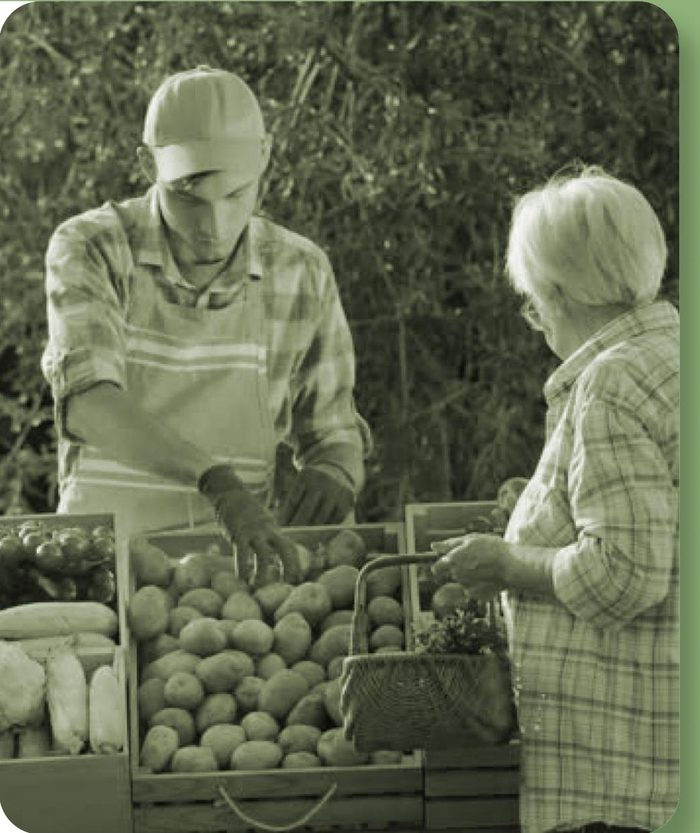
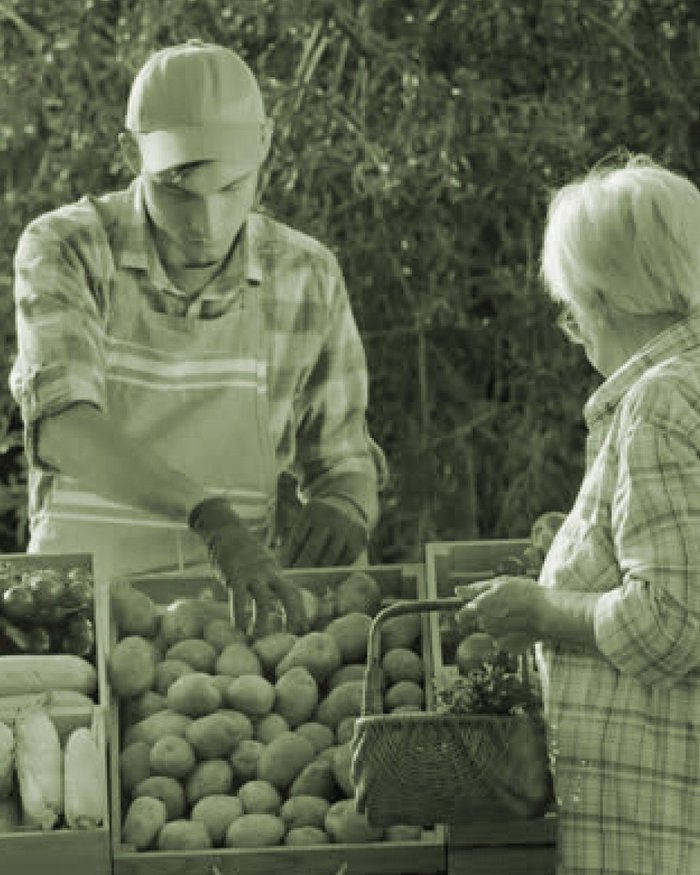
Make page: match reference layout, blinking caret, full-width bars
Rework the Harvest Fair card to top-aligned text with a 2:3 text/photo
split and independently rounded left corners on the photo (using the
color photo supplied for this card, cropped clean of its own baked-in
rounding). Replace the "Host a Cultural Event" card with two plain
full-width bars ("Host a Cultural Event", "Open a Temporary Shop") that
lighten on hover but aren't clickable. Replace the tall static left
border on the initiative textarea with a single-line blinking caret
that hides once the field is focused or has text.

Claude-Session: https://claude.ai/code/session_01BxYCRXjLNNhZD275zs3Trx

diff --git a/assets/css/style.css b/assets/css/style.css
@@ -533,30 +533,41 @@ main {
 
 .make-card {
   display: grid;
-  grid-template-columns: 1fr 1fr;
+  grid-template-columns: 2fr 3fr;
   min-height: 280px;
 }
 
 .make-card .card__body {
   display: flex;
   flex-direction: column;
-  justify-content: center;
-}
-
-.make-card--muted {
-  background: var(--green-light);
-  color: var(--green-deep);
-}
-
-.make-card--muted .card__title strong {
-  color: var(--green-deep);
+  justify-content: flex-start;
 }
 
 .make-card__img img {
   width: 100%;
   height: 100%;
   object-fit: cover;
-  filter: grayscale(1) sepia(0.15);
+  border-top-left-radius: var(--radius-md);
+  border-bottom-left-radius: var(--radius-md);
+}
+
+.make-bar {
+  font-family: 'Montserrat', sans-serif;
+  font-size: 1.25rem;
+  color: var(--green-deep);
+  background: var(--green-light);
+  border-radius: var(--radius-md);
+  padding: 22px 28px;
+  box-shadow: 0 10px 24px rgba(0, 0, 0, 0.08);
+  transition: background 0.2s ease;
+}
+
+.make-bar strong {
+  font-weight: 600;
+}
+
+.make-bar:hover {
+  background: #d5e4cb;
 }
 
 .make-or {
@@ -573,6 +584,10 @@ main {
   padding: 8px;
 }
 
+.make-form__field {
+  position: relative;
+}
+
 .make-form textarea {
   width: 100%;
   min-height: 220px;
@@ -582,8 +597,7 @@ main {
   font-weight: 600;
   font-size: 1.15rem;
   color: var(--green-deep);
-  padding: 24px;
-  border-left: 4px solid var(--green-light);
+  padding: 24px 24px 24px 34px;
 }
 
 .make-form textarea::placeholder {
@@ -593,7 +607,27 @@ main {
 
 .make-form textarea:focus {
   outline: none;
-  border-left-color: var(--green);
+}
+
+.fake-caret {
+  position: absolute;
+  left: 24px;
+  top: 26px;
+  width: 2px;
+  height: 1.2em;
+  background: var(--green-deep);
+  animation: caretBlink 1s steps(1) infinite;
+  pointer-events: none;
+}
+
+.make-form__field:has(textarea:focus) .fake-caret,
+.make-form__field:has(textarea:not(:placeholder-shown)) .fake-caret {
+  display: none;
+}
+
+@keyframes caretBlink {
+  0%, 49% { opacity: 1; }
+  50%, 100% { opacity: 0; }
 }
 
 .make-form__footer {
@@ -631,6 +665,11 @@ main {
   .make-or { padding-top: 0; }
   .make-card { grid-template-columns: 1fr; }
   .make-card__img { min-height: 220px; }
+  .make-card__img img {
+    border-radius: 0;
+    border-bottom-left-radius: var(--radius-md);
+    border-bottom-right-radius: var(--radius-md);
+  }
 }
 
 /* ================= STAY ================= */

diff --git a/make.html b/make.html
@@ -32,21 +32,18 @@
           </div>
         </article>
 
-        <article class="card make-card make-card--muted">
-          <div class="card__body">
-            <p class="card__title">Host a<strong>Cultural Event</strong></p>
-          </div>
-          <div class="make-card__img">
-            <img src="assets/img/make-cultural.jpg" alt="Evento culturale serale in un vicolo di Apice">
-          </div>
-        </article>
+        <div class="make-bar">Host a <strong>Cultural Event</strong></div>
+        <div class="make-bar">Open a <strong>Temporary Shop</strong></div>
       </div>
 
       <div class="make-or">Or</div>
 
       <div class="make-col">
         <form class="card make-form" data-fake-submit>
-          <textarea name="initiative" placeholder="Write your initiative to us…" required></textarea>
+          <div class="make-form__field">
+            <span class="fake-caret" aria-hidden="true"></span>
+            <textarea name="initiative" placeholder="Write your initiative to us…" required></textarea>
+          </div>
           <div class="form-note" aria-live="polite"></div>
           <div class="make-form__footer">
             <button class="btn" type="submit">Send</button>
